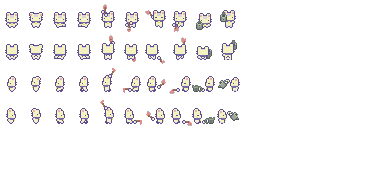
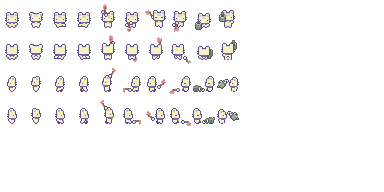
fix 1 frame jitter and other stuff

diff --git a/src/game/camera.rs b/src/game/camera.rs
@@ -1,10 +1,10 @@
 use bevy::{
     input::mouse::{MouseScrollUnit, MouseWheel},
     prelude::*,
-    window::WindowResized,
+    window::{PrimaryWindow, WindowResized},
 };
 
-use crate::{AppSet, constants::*, screens::Screen};
+use crate::{AppSystems, constants::*, screens::Screen};
 
 use super::player::Player;
 
@@ -13,31 +13,20 @@ pub(super) fn plugin(app: &mut App) {
     app.init_resource::<CameraBounds>();
     app.init_resource::<CursorPos>();
     app.add_event::<CameraScaleEvent>();
-    app.add_systems(
-        Update,
-        (
-            apply_screen_wrap,
-            camera_follow_player,
-            camera_zoom,
-            update_cursor_pos.run_if(on_event::<CursorMoved>),
-        )
-            .chain()
-            .run_if(in_state(Screen::Gameplay))
-            .in_set(AppSet::Update),
-    );
-    app.add_systems(
-        Update,
-        calculate_camera_bounds
-            .run_if(on_event::<WindowResized>.or(on_event::<CameraScaleEvent>))
-            .in_set(AppSet::PreUpdate),
-    );
     app.add_systems(OnEnter(Screen::Gameplay), calculate_camera_bounds);
 
     app.add_systems(
         Update,
-        camera_zoom
-            .run_if(on_event::<MouseWheel>.and(in_state(Screen::Gameplay)))
-            .in_set(AppSet::PreUpdate),
+        (
+            camera_zoom.run_if(on_event::<MouseWheel>),
+            update_cursor_pos,
+            apply_screen_wrap,
+            camera_follow_player,
+            calculate_camera_bounds
+                .run_if(on_event::<WindowResized>.or(on_event::<CameraScaleEvent>)),
+        )
+            .in_set(AppSystems::PostUpdate)
+            .run_if(in_state(Screen::Gameplay)),
     );
 }
 
@@ -159,7 +148,7 @@ fn camera_zoom(
     if let Projection::Orthographic(ref mut ortho) = *projection {
         ortho.scale *= 1.0 - scroll_amount * zoom_speed;
         // Clamp to reasonable limits
-        ortho.scale = ortho.scale.clamp(0.8, 1.0);
+        ortho.scale = ortho.scale.clamp(0.2, 1.0);
         ew.write(CameraScaleEvent);
     }
 }
@@ -174,17 +163,15 @@ impl Default for CursorPos {
 }
 fn update_cursor_pos(
     camera_q: Query<(&GlobalTransform, &Camera)>,
-    mut cursor_moved_events: EventReader<CursorMoved>,
+    q_window: Query<&Window, With<PrimaryWindow>>,
     mut cursor_pos: ResMut<CursorPos>,
 ) {
-    for cursor_moved in cursor_moved_events.read() {
-        // To get the mouse's world position, we have to transform its window position by
-        // any transforms on the camera. This is done by projecting the cursor position into
-        // camera space (world space).
-        for (cam_t, cam) in camera_q.iter() {
-            if let Ok(pos) = cam.viewport_to_world_2d(cam_t, cursor_moved.position) {
-                *cursor_pos = CursorPos(pos);
-            }
+    let (cam_t, cam) = camera_q.single().expect("Camera should exist!");
+    let window = q_window.single().expect("Window should exist!");
+    if let Some(pos) = window.cursor_position() {
+        // Convert the cursor position to world space
+        if let Ok(pos) = cam.viewport_to_world_2d(cam_t, pos) {
+            *cursor_pos = CursorPos(pos);
         }
     }
 }

diff --git a/src/game/animation.rs b/src/game/animation.rs
@@ -3,7 +3,7 @@ use rand::prelude::*;
 use std::time::Duration;
 
 use crate::{
-    AppSet,
+    AppSystems,
     audio::sound_effect,
     game::{movement::MovementController, player::PlayerAssets},
 };
@@ -14,7 +14,7 @@ pub(super) fn plugin(app: &mut App) {
     app.add_systems(
         Update,
         (
-            update_animation_timer.in_set(AppSet::TickTimers),
+            update_animation_timer.in_set(AppSystems::TickTimers),
             (
                 update_player_actions,
                 update_animation_movement,
@@ -23,7 +23,7 @@ pub(super) fn plugin(app: &mut App) {
             )
                 .chain()
                 .run_if(resource_exists::<PlayerAssets>)
-                .in_set(AppSet::Update),
+                .in_set(AppSystems::Update),
         ),
     );
 }
@@ -212,6 +212,7 @@ fn update_animation_movement(
         };
 
         if animation.state != animation_state {
+            animation.set_state_changed(true);
             animation.update_state(animation_state);
         }
     }
@@ -253,8 +254,8 @@ fn trigger_step_sound_effect(
                 .expect("Player assets should exist!")
                 .clone();
             commands.spawn(sound_effect(random_step));
-            animation.set_state_changed(false);
         }
+        animation.set_state_changed(false);
     }
 }
 
@@ -355,6 +356,20 @@ impl PlayerAnimationState {
                     Vec2::new(0.2, 0.0)
                 } else {
                     Vec2::new(-0.2, 0.0)
+                }
+            }
+            PlayerAnimationState::ChoppingT => {
+                if frame == 1 {
+                    Vec2::new(-0.1, 0.0)
+                } else {
+                    Vec2::ZERO
+                }
+            }
+            PlayerAnimationState::ChoppingB => {
+                if frame == 1 {
+                    Vec2::ZERO
+                } else {
+                    Vec2::new(0.1, 0.0)
                 }
             }
             _ => Vec2::ZERO,

diff --git a/src/screens/splash.rs b/src/screens/splash.rs
@@ -6,7 +6,7 @@ use bevy::{
     prelude::*,
 };
 
-use crate::{AppSet, screens::Screen, theme::prelude::*};
+use crate::{AppSystems, screens::Screen, theme::prelude::*};
 
 pub(super) fn plugin(app: &mut App) {
     // Spawn splash screen.
@@ -17,8 +17,8 @@ pub(super) fn plugin(app: &mut App) {
     app.add_systems(
         Update,
         (
-            tick_fade_in_out.in_set(AppSet::TickTimers),
-            apply_fade_in_out.in_set(AppSet::Update),
+            tick_fade_in_out.in_set(AppSystems::TickTimers),
+            apply_fade_in_out.in_set(AppSystems::Update),
         )
             .run_if(in_state(Screen::Splash)),
     );
@@ -30,8 +30,8 @@ pub(super) fn plugin(app: &mut App) {
     app.add_systems(
         Update,
         (
-            tick_splash_timer.in_set(AppSet::TickTimers),
-            check_splash_timer.in_set(AppSet::Update),
+            tick_splash_timer.in_set(AppSystems::TickTimers),
+            check_splash_timer.in_set(AppSystems::Update),
         )
             .run_if(in_state(Screen::Splash)),
     );
@@ -45,8 +45,8 @@ pub(super) fn plugin(app: &mut App) {
 }
 
 const SPLASH_BACKGROUND_COLOR: Color = Color::srgb(0.157, 0.157, 0.157);
-const SPLASH_DURATION_SECS: f32 = 1.8;
-const SPLASH_FADE_DURATION_SECS: f32 = 0.6;
+const SPLASH_DURATION_SECS: f32 = 1.0;
+const SPLASH_FADE_DURATION_SECS: f32 = 0.3;
 
 fn spawn_splash_screen(mut commands: Commands, asset_server: Res<AssetServer>) {
     commands.spawn((

diff --git a/src/lib.rs b/src/lib.rs
@@ -22,10 +22,11 @@ impl Plugin for AppPlugin {
         app.configure_sets(
             Update,
             (
-                AppSet::TickTimers,
-                AppSet::RecordInput,
-                AppSet::PreUpdate,
-                AppSet::Update,
+                AppSystems::TickTimers,
+                AppSystems::RecordInput,
+                AppSystems::PreUpdate,
+                AppSystems::Update,
+                AppSystems::PostUpdate,
             )
                 .chain(),
         );
@@ -76,14 +77,14 @@ impl Plugin for AppPlugin {
 /// When adding a new variant, make sure to order it in the `configure_sets`
 /// call above.
 #[derive(SystemSet, Debug, Clone, Copy, Eq, PartialEq, Hash, PartialOrd, Ord)]
-enum AppSet {
+enum AppSystems {
     /// Tick timers.
     TickTimers,
     /// Record player input.
     RecordInput,
     PreUpdate,
-    /// Do everything else (consider splitting this into further variants).
     Update,
+    PostUpdate,
 }
 
 fn spawn_camera(mut commands: Commands) {

diff --git a/src/game/player.rs b/src/game/player.rs
@@ -6,7 +6,7 @@ use bevy::{
 };
 
 use crate::{
-    AppSet,
+    AppSystems,
     asset_tracking::LoadResource,
     constants::{GRID_SIZE_X, GRID_SIZE_Y},
     game::{animation::PlayerAnimation, movement::MovementController},
@@ -25,7 +25,7 @@ pub(super) fn plugin(app: &mut App) {
     // Record directional input as movement controls.
     app.add_systems(
         Update,
-        record_player_directional_input.in_set(AppSet::RecordInput),
+        record_player_directional_input.in_set(AppSystems::RecordInput),
     );
 }
 

diff --git a/src/world/tiledhelper.rs b/src/world/tiledhelper.rs
@@ -29,7 +29,7 @@ use bevy::{
 use bevy_ecs_tilemap::prelude::*;
 use thiserror::Error;
 
-use crate::AppSet;
+use crate::AppSystems;
 use crate::constants::TILE_SCALE;
 use crate::game::camera::CursorPos;
 
@@ -49,7 +49,7 @@ impl Plugin for TiledPlugin {
                         .run_if(on_event::<MouseButtonInput>),
                 )
                     .chain()
-                    .in_set(AppSet::PreUpdate),
+                    .in_set(AppSystems::PreUpdate),
             );
     }
 }

diff --git a/src/game/movement.rs b/src/game/movement.rs
@@ -15,7 +15,7 @@
 
 use bevy::prelude::*;
 
-use crate::AppSet;
+use crate::AppSystems;
 use crate::screens::Screen;
 
 pub(super) fn plugin(app: &mut App) {
@@ -23,9 +23,8 @@ pub(super) fn plugin(app: &mut App) {
     app.add_systems(
         Update,
         (apply_movement,)
-            .chain()
             .run_if(in_state(Screen::Gameplay))
-            .in_set(AppSet::Update),
+            .in_set(AppSystems::Update),
     );
 }
 

diff --git a/src/constants.rs b/src/constants.rs
@@ -1,6 +1,6 @@
 pub const GRID_SIZE_X: u32 = 24;
 pub const GRID_SIZE_Y: u32 = 32;
-pub const PLAYER_SCALE: f32 = 3.0; // Scale for rendering
+pub const PLAYER_SCALE: f32 = 4.0; // Scale for rendering
 pub const PLAYER_Z: f32 = 2.0; // Z position for rendering
 pub const PLAYER_MAX_SPEED: f32 = 800.0; // Max speed for player movement
 pub const TILE_SIZE: i32 = 16;

diff --git a/src/world/tilemap.rs b/src/world/tilemap.rs
@@ -1,11 +1,11 @@
 use bevy::prelude::*;
 
-use crate::{AppSet, screens::Screen};
+use crate::{AppSystems, screens::Screen};
 
 pub(super) fn plugin(app: &mut App) {
     app.add_systems(
         OnEnter(Screen::Gameplay),
-        spawn_tile_map.in_set(AppSet::PreUpdate),
+        spawn_tile_map.in_set(AppSystems::PreUpdate),
     );
 }
 
